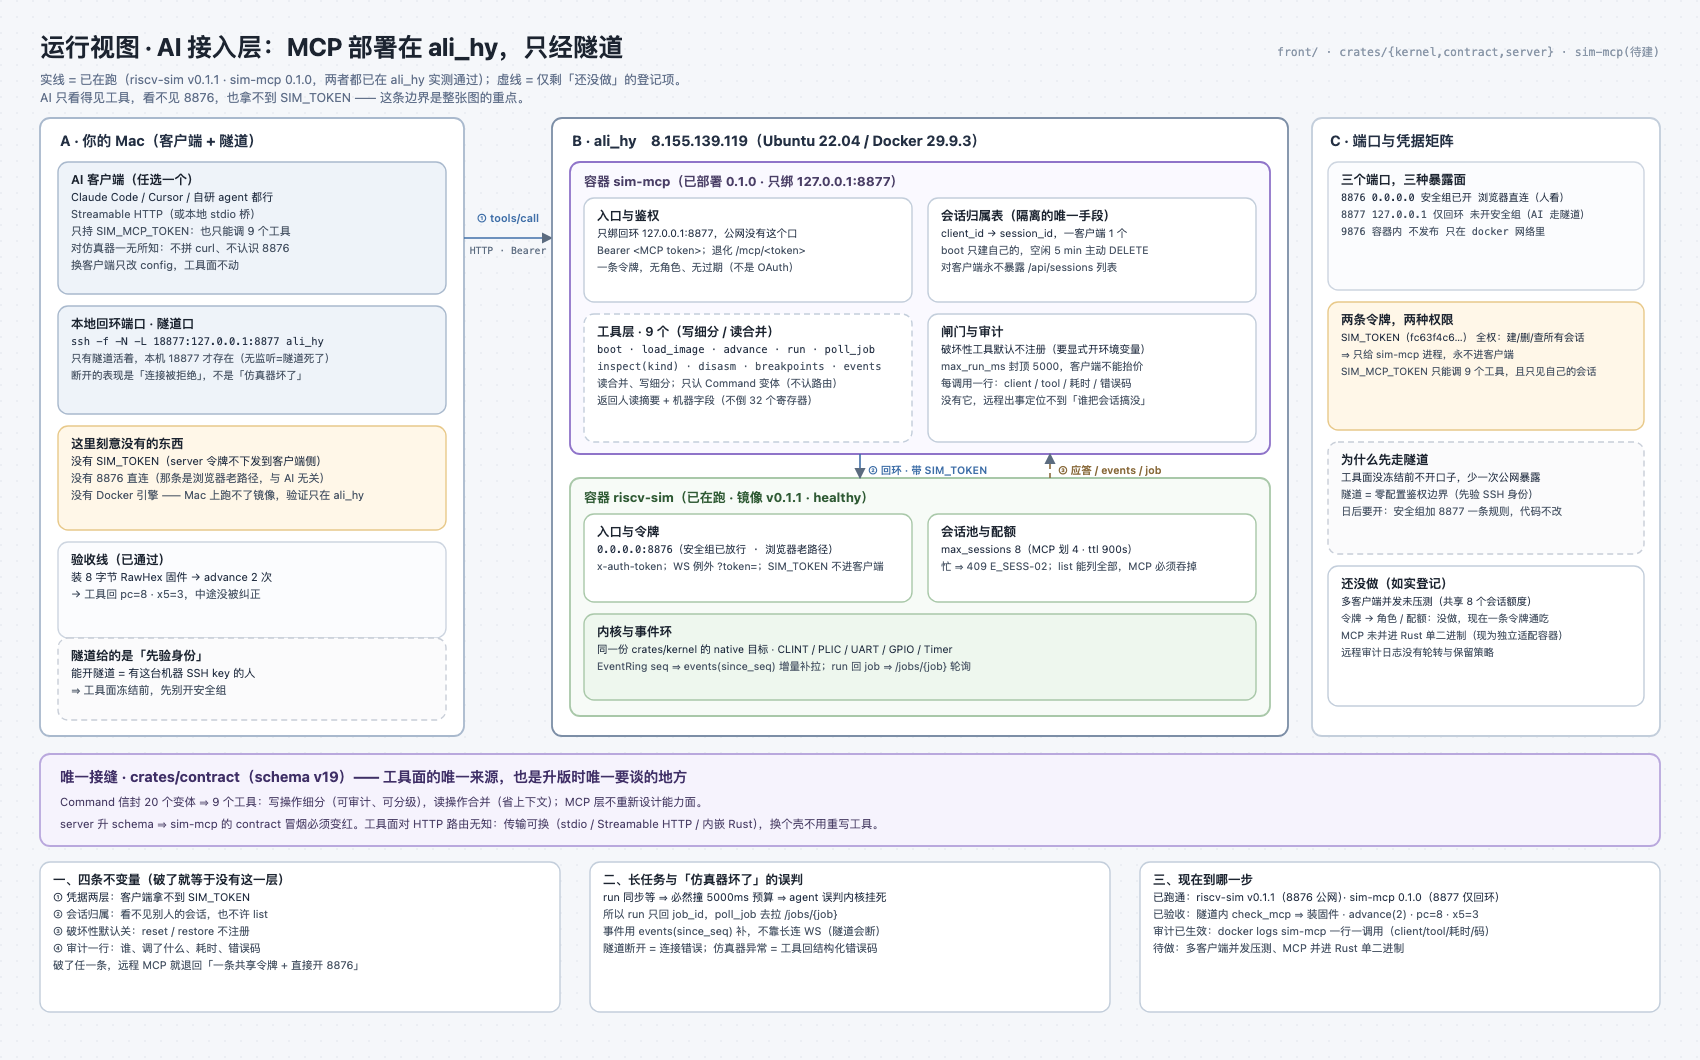
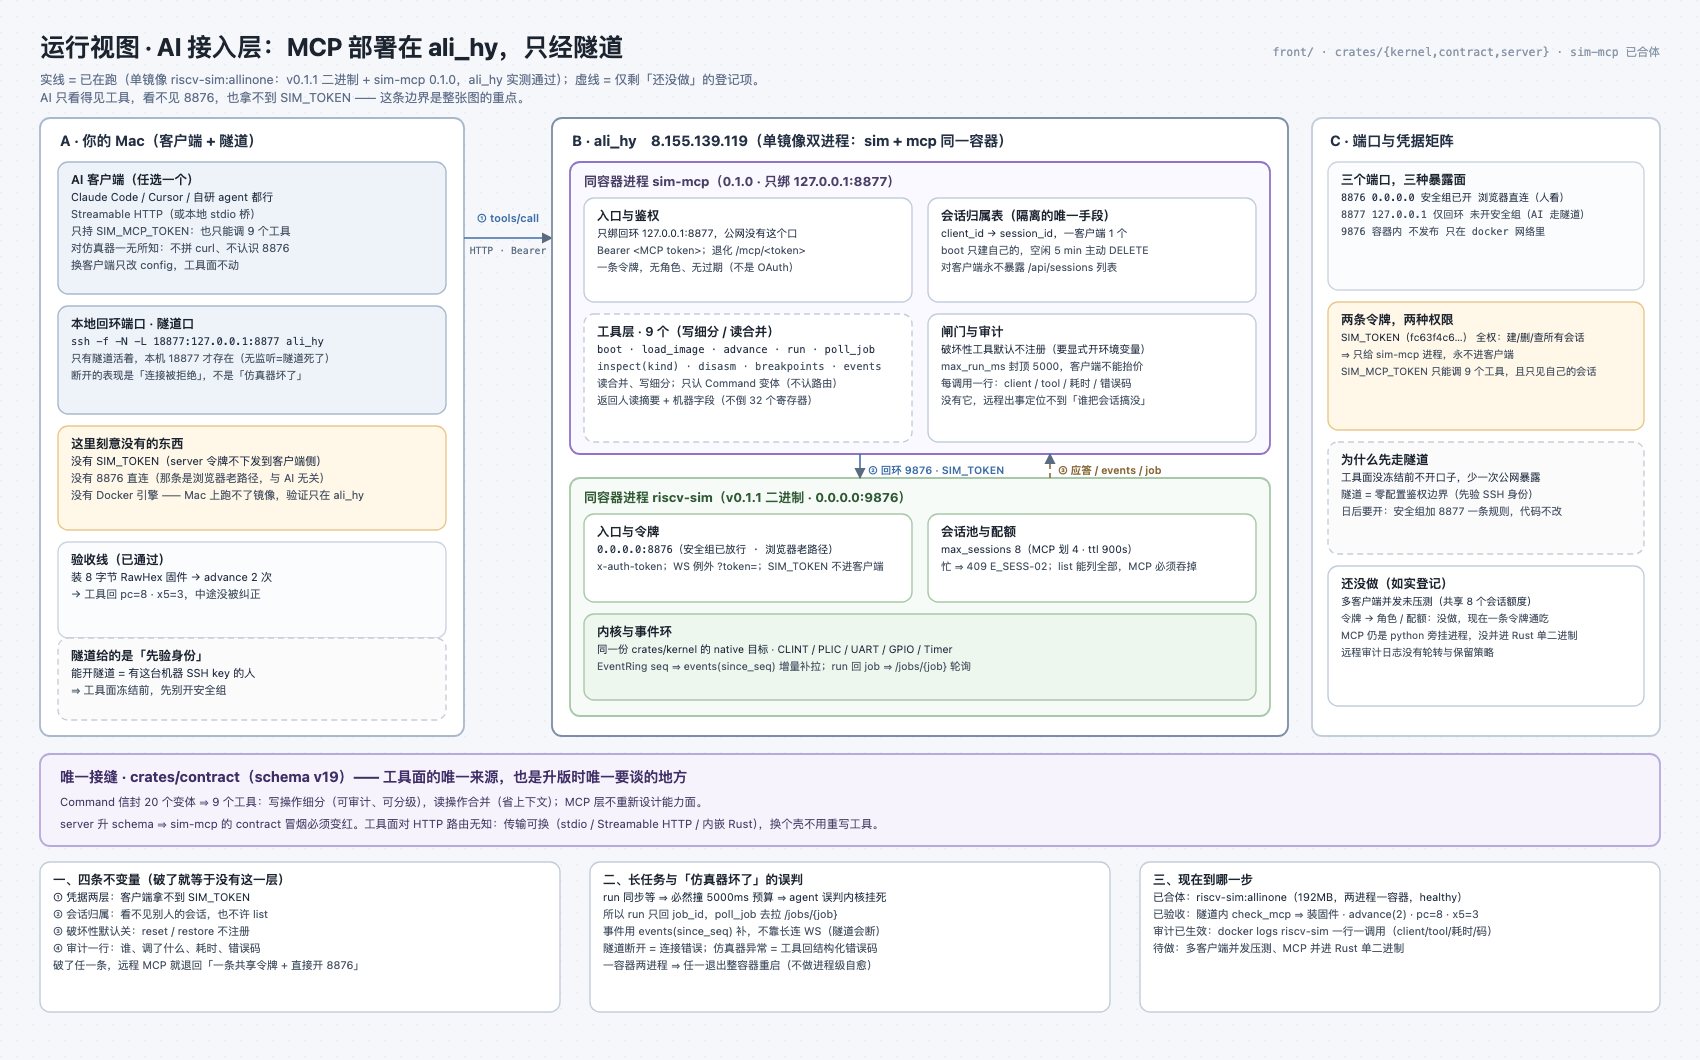
feat(docker): sim + sim-mcp 合成单镜像（一条 docker run 两个进程）
- Dockerfile：运行层改 python:3.12-slim-bookworm（mcp 纯标准库，不再 apt；
  ali_hy 上 bookworm 仓库签名公钥缺失会让 apt-get update 直接失败）
- 新增 docker/supervise.sh：MCP 后台 + 服务端前台，任一退出整容器退出（不做进程级自愈）
- 新增 docker/healthcheck.py：两个 /healthz 都探（只探服务端=允许「页面能开、AI 连不上」）
- mcp/server.py：/healthz 带上游探测（上游地址配错时回 503，而不是假装健康）
- 新增 Dockerfile.allinone：合成口径（复用已发布镜像的二进制与 front，不重编 Rust；
  ali_hy 实测 cargo build 卡在依赖下载 20min 0% CPU）
- compose：单服务发布 8876(公网) + 8877(仅宿主回环)；deploy.sh 的 .env 生成 SIM_MCP_TOKEN
- 视图/文档：两进程同容器、端口矩阵、验收线订正

diff --git a/mcp/server.py b/mcp/server.py
@@ -648,7 +648,20 @@ class Handler(BaseHTTPRequestHandler):
     def do_GET(self) -> None:  # noqa: N802 - http.server 的命名
         path = urlparse(self.path).path
         if path == "/healthz":
-            self._json(200, {"ok": True, "tools": len(TOOLS), "destructive": ALLOW_DESTRUCTIVE})
+            # 只报「我在跑」是不够的：上游地址配错时，进程活着但每个工具都 502。
+            # 探针要能抓到这种「起得来、干不了活」的状态。
+            try:
+                with urllib.request.urlopen(SIM_BASE + "/healthz", timeout=2) as resp:
+                    upstream_ok = resp.status == 200
+                detail = ""
+            except Exception as err:  # noqa: BLE001
+                upstream_ok = False
+                detail = str(err)
+            self._json(200 if upstream_ok else 503, {
+                "ok": upstream_ok, "tools": len(TOOLS), "base": SIM_BASE,
+                "destructive": ALLOW_DESTRUCTIVE,
+                **({} if upstream_ok else {"upstream_error": detail}),
+            })
             return
         if path.startswith("/mcp"):
             self.send_response(405)

diff --git a/docker/healthcheck.py b/docker/healthcheck.py
@@ -1,0 +1,24 @@
+#!/usr/bin/env python3
+"""容器探针：仿真器 + （开了 MCP 时的）sim-mcp 都得能收流量才算健康。
+
+只用标准库：运行层是 python:3.12-slim，没有 curl，也不该为了探针再装一遍。
+"""
+import os
+import sys
+import urllib.request
+
+PORTS = [("sim", os.environ.get("SIM_PORT", "9876"))]
+if os.environ.get("SIM_MCP_TOKEN"):
+    PORTS.append(("sim-mcp", os.environ.get("SIM_MCP_PORT", "8877")))
+
+for name, port in PORTS:
+    try:
+        with urllib.request.urlopen(f"http://127.0.0.1:{port}/healthz", timeout=2) as resp:
+            if resp.status != 200:
+                print(f"{name} :{port} 回 {resp.status}", file=sys.stderr)
+                sys.exit(1)
+    except Exception as err:  # noqa: BLE001 - 探针只关心「通不通」
+        print(f"{name} :{port} 不通：{err}", file=sys.stderr)
+        sys.exit(1)
+
+print("ok: " + ", ".join(f"{n}:{p}" for n, p in PORTS))

diff --git a/docs/USER_GUIDE.md b/docs/USER_GUIDE.md
@@ -89,6 +89,15 @@ http://localhost:8876/?token=<随机生成的令牌>
 
 常用子命令：`./deploy.sh rebuild`（改了代码/前端后重建）、`down`（停，数据卷保留）、`logs`、`ps`。
 
+**单镜像形态（sim + mcp 一个容器）**：`Dockerfile.allinone` 把 MCP 层合进主镜像 ——
+一条 `docker run` 带 `-e SIM_MCP_TOKEN` 就同时起服务端与 MCP，容器内 MCP 走回环
+`127.0.0.1:9876`，宿主侧只把 `8877` 发布到回环（公网仍然没有这个端口，AI 走
+`ssh -L 18877:127.0.0.1:8877` 进来）。它是**合成口径**：复用已发布镜像里的
+`riscv_sim_server` 与 `front/`，不重编 Rust（ali_hy 上 `cargo build --locked` 会卡在
+依赖下载）；`Dockerfile` 仍是发布口径（源码编译 + CI 出 v0.1.x）。
+两个进程的生死由一个 `docker/supervise.sh` 管：**任一退出 ⇒ 整个容器退出**，交给
+`--restart unless-stopped`，不做进程级自愈（半死不活的容器比直接重启更难查）。
+
 整张图在 [`docs/architecture/deploy-view.svg`](./architecture/deploy-view.svg)（同名 `.png` 供直接看）：浏览器 → 宿主 `8876` → 容器 `9876` → 进程（静态托管 / API / 会话线程 / 内核），以及卷与健康检查的位置。
 
 几个必须知道的点：
